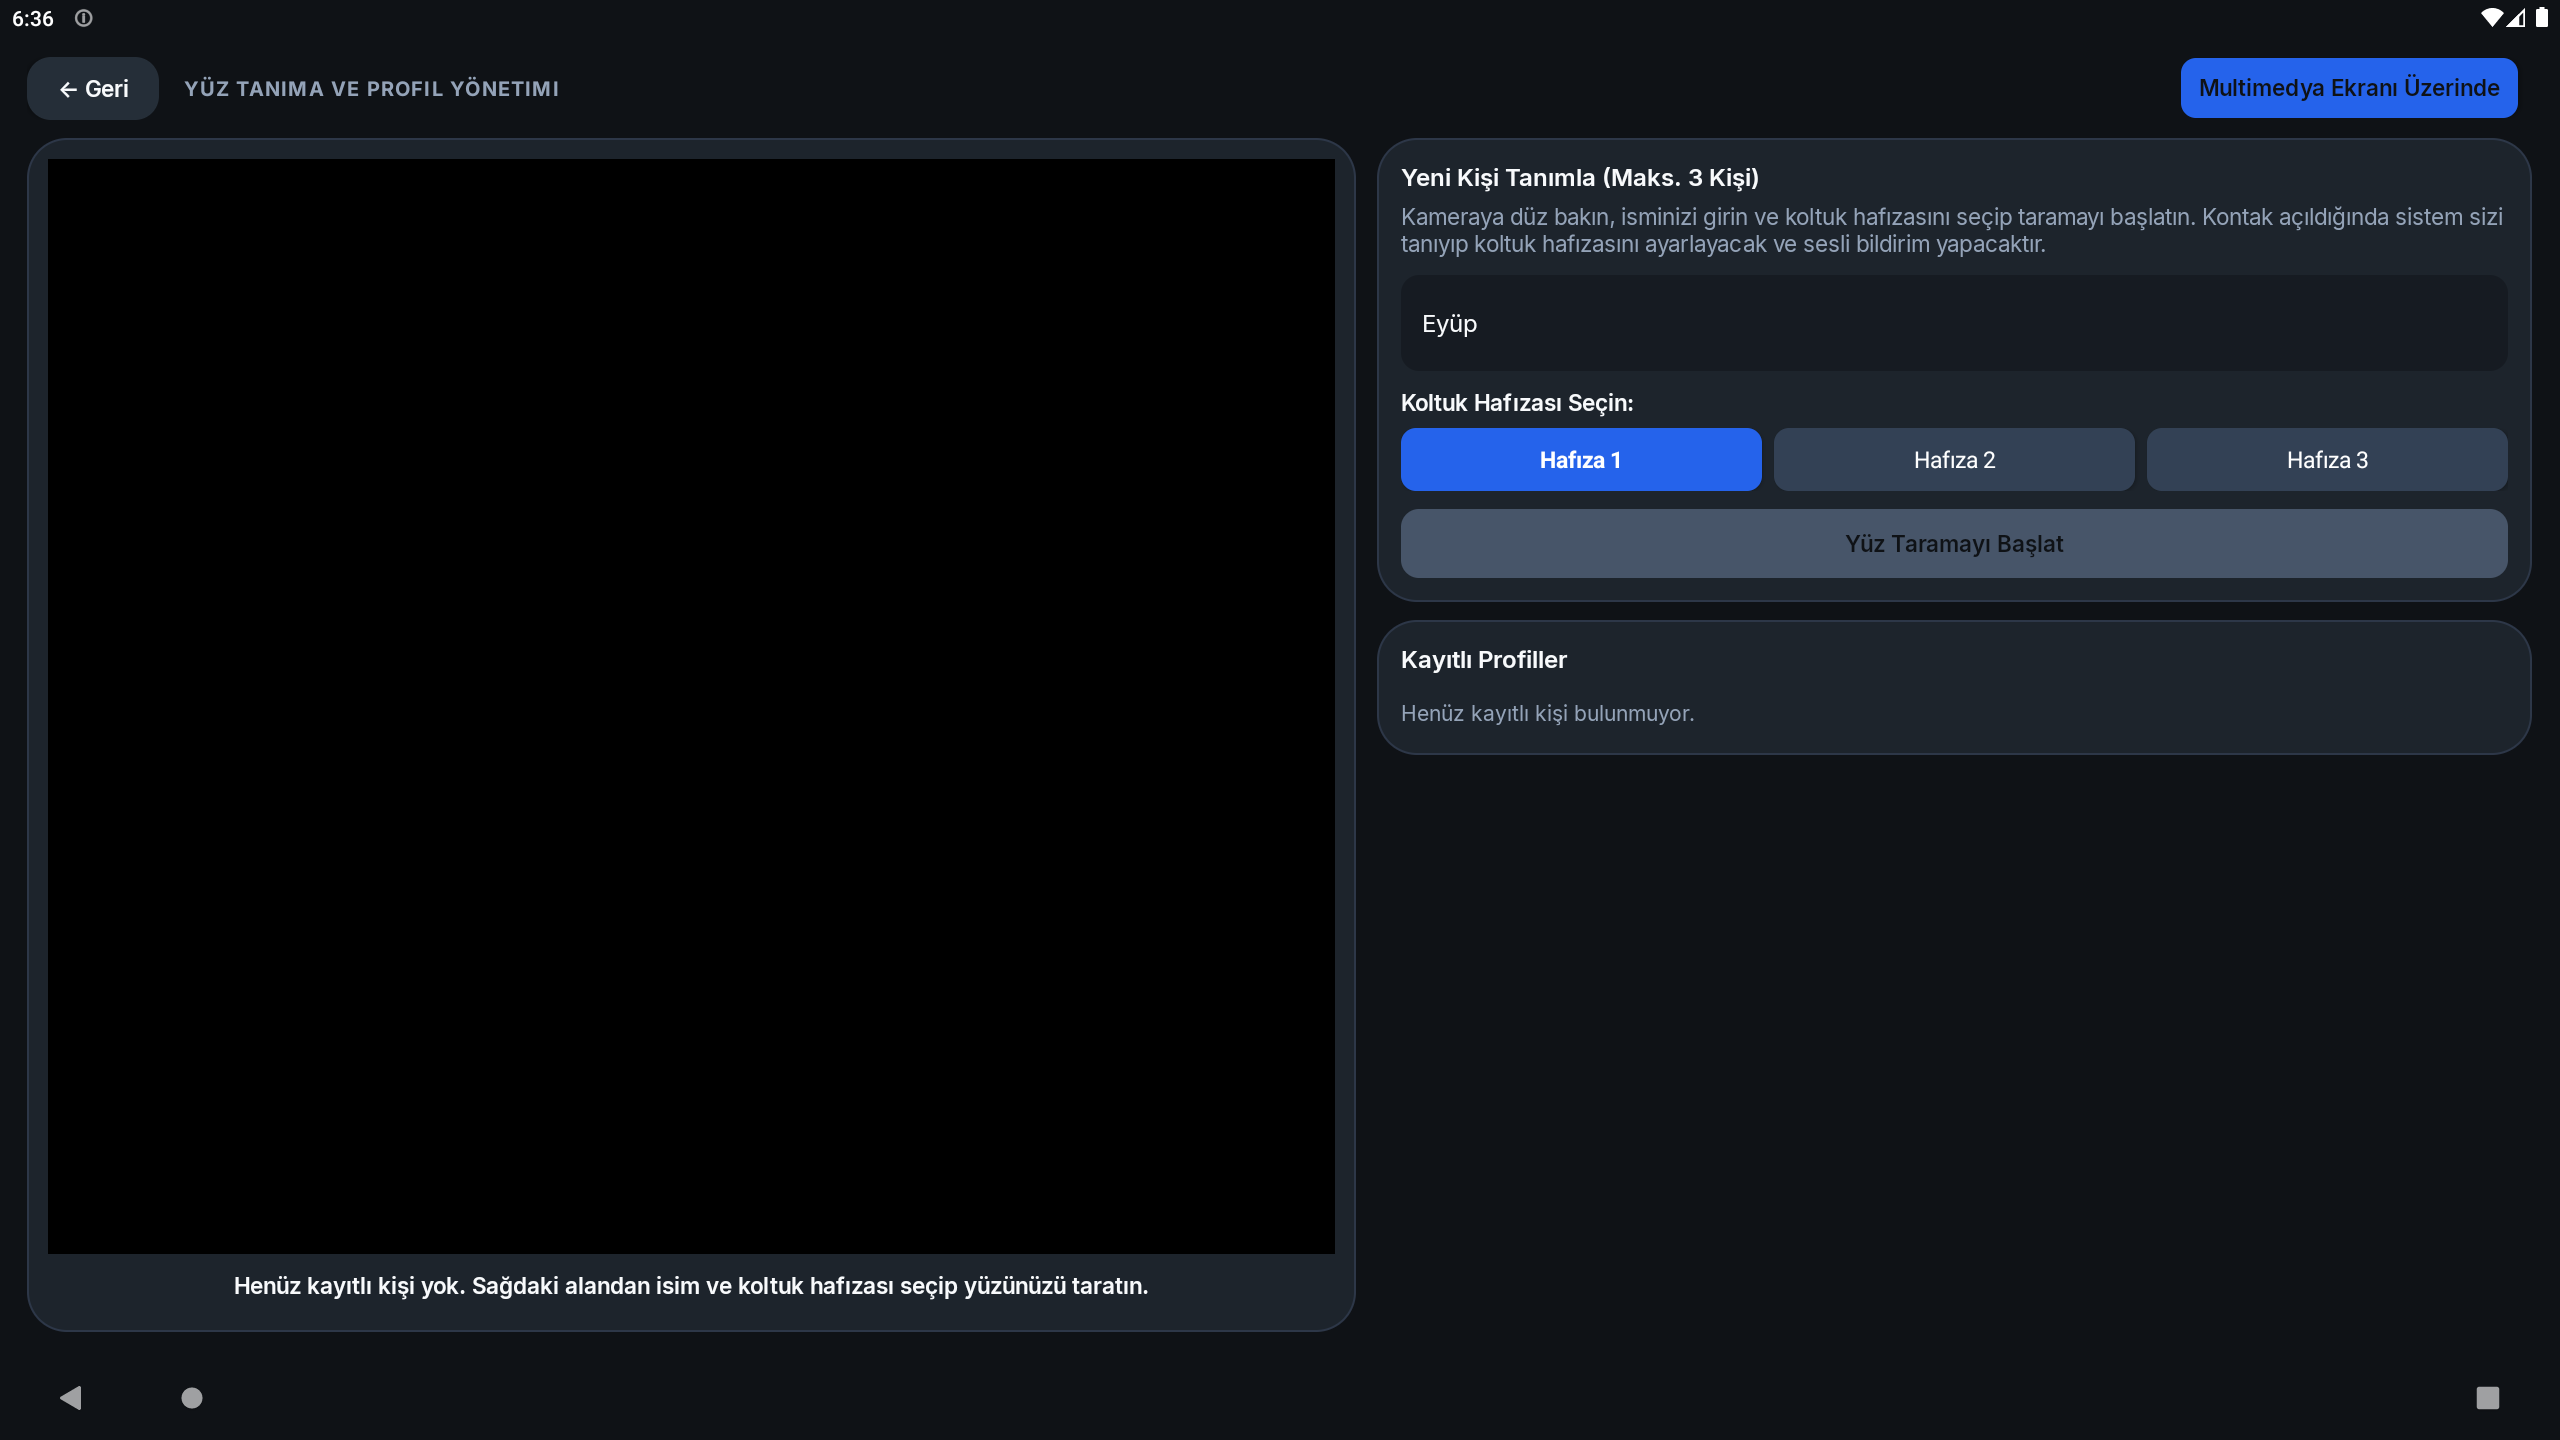
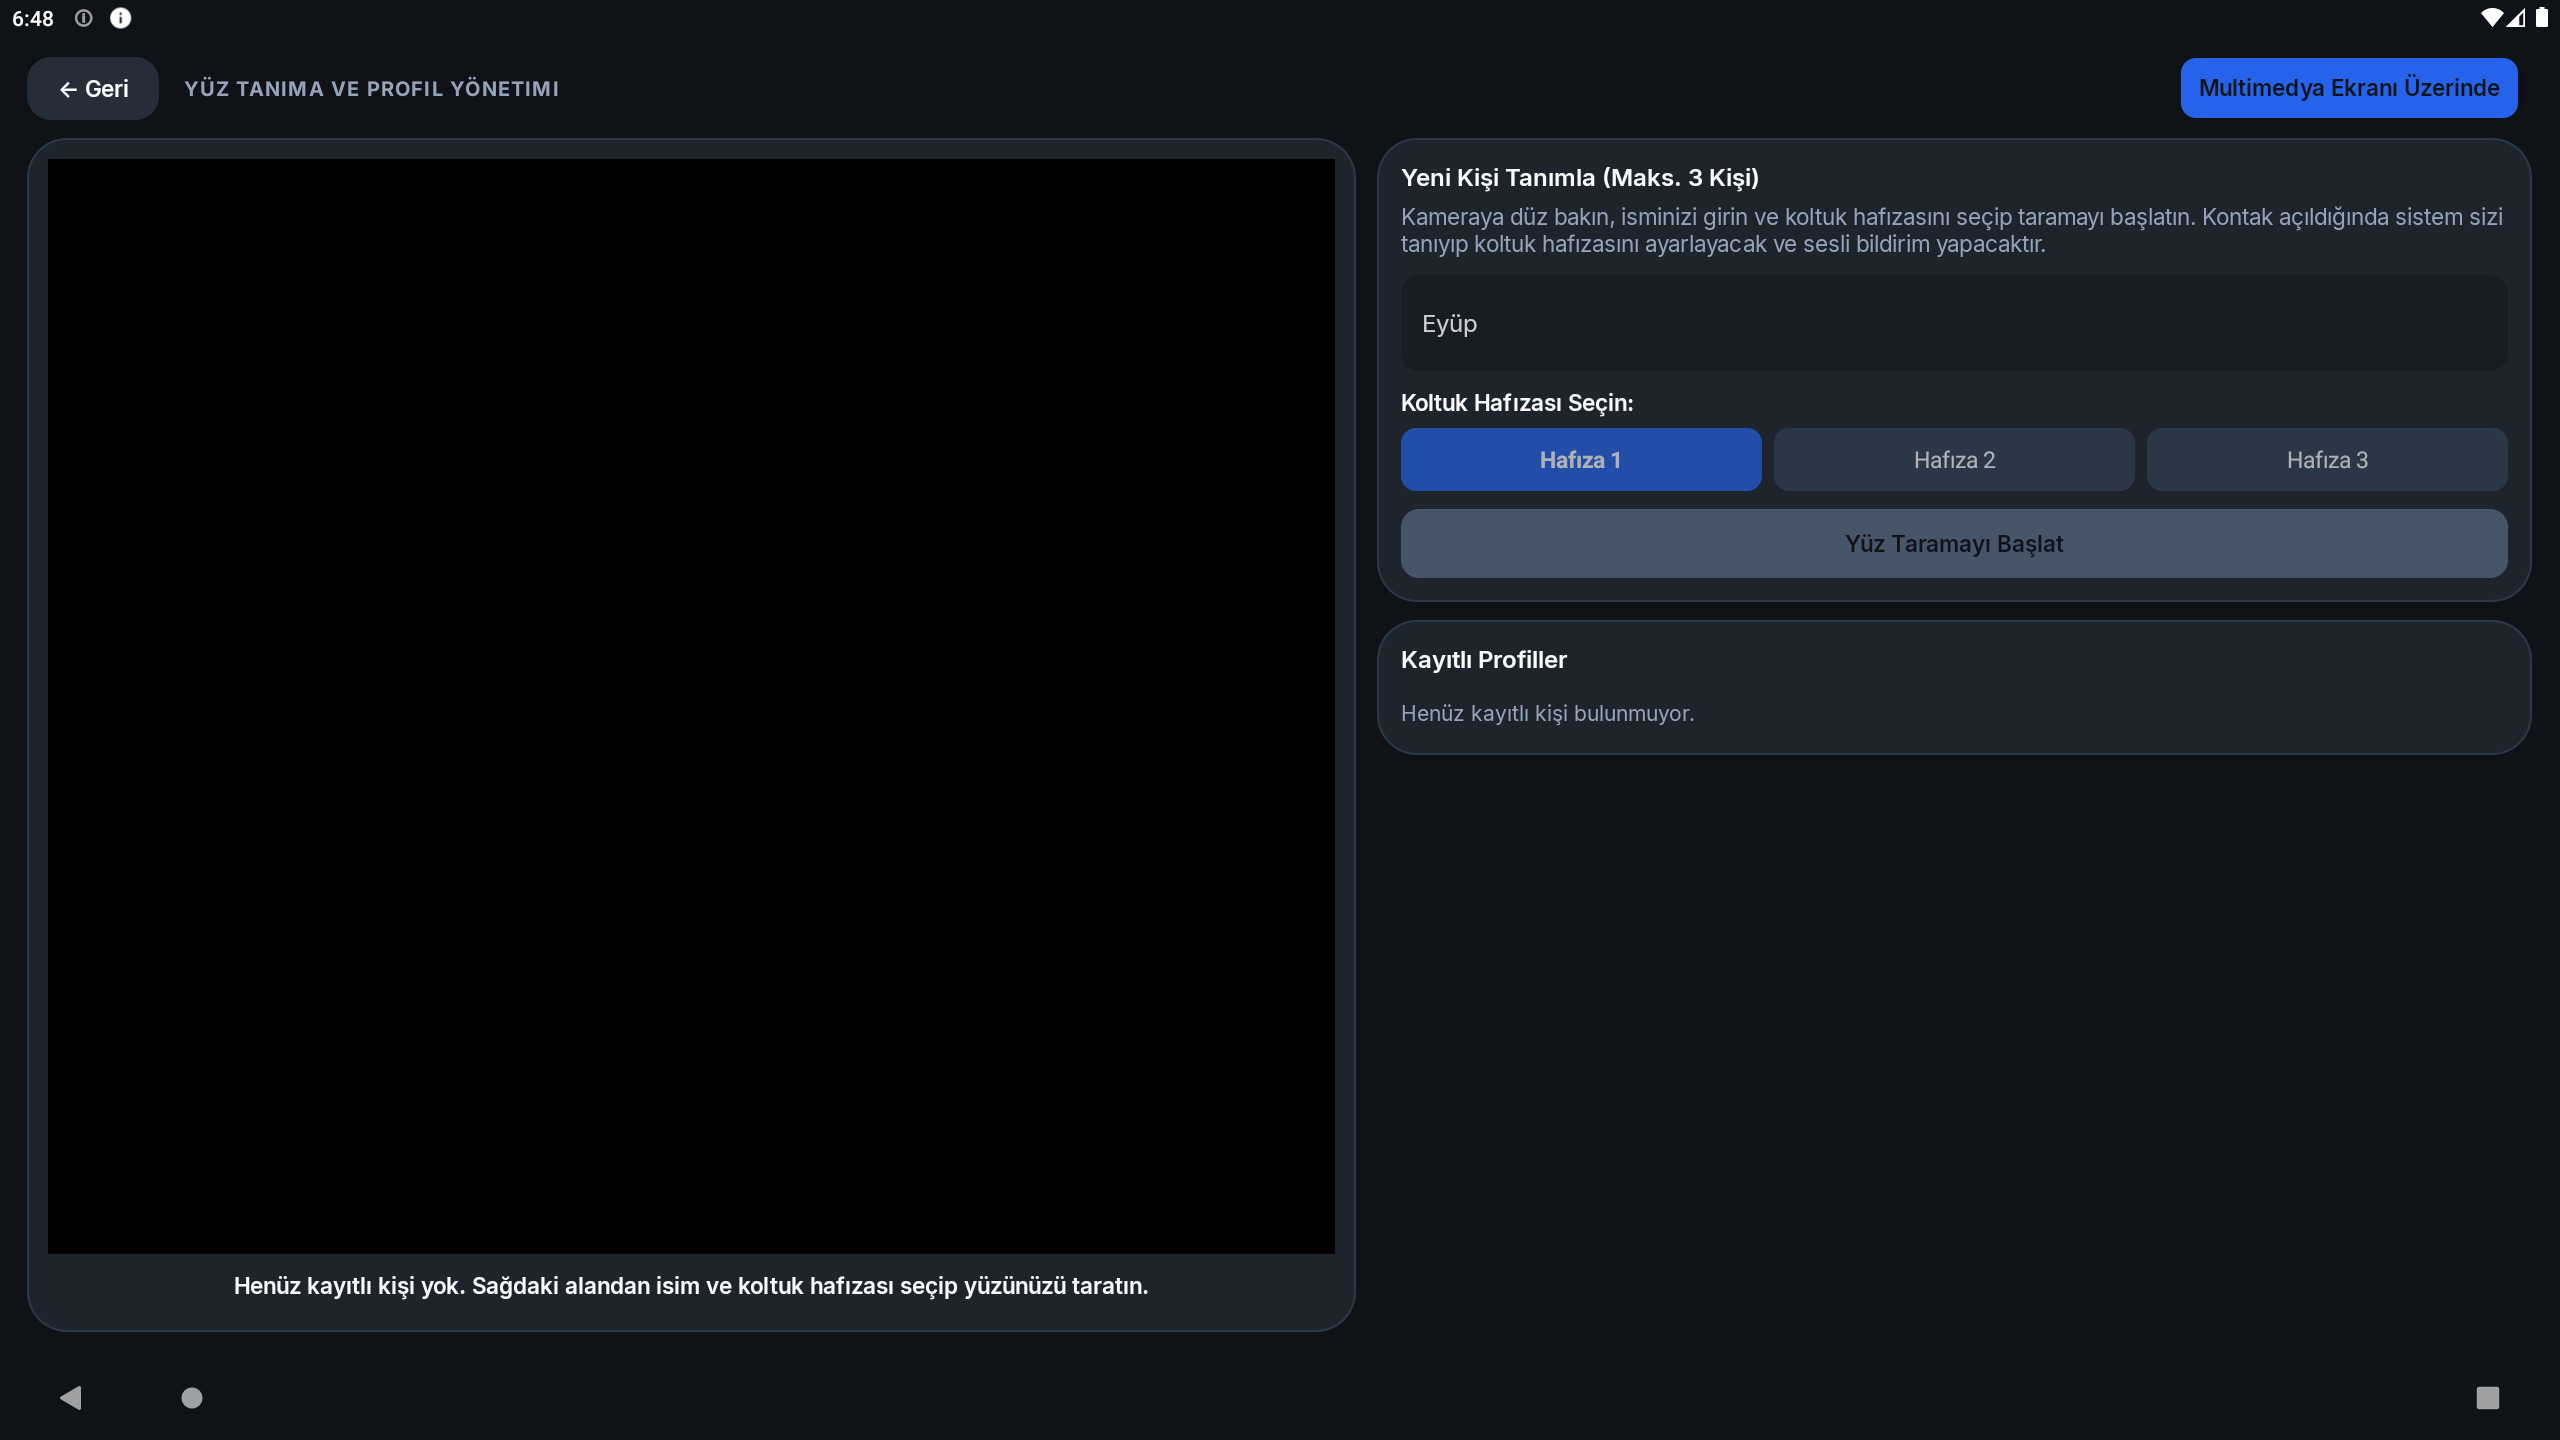
fix: profil yuz kaydinda kimlik alanlarini kilitle
- Profil kartindan acilirsa isim ve koltuk slotu degistirilemez
- Secili profil adi ve slotu prefill geliyor
- Dogrudan Yuz Tanima ekraninda yeni kisi girisleri serbest kaliyor

Changed region(s): [[0.5312, 0.2812, 0.6875, 0.3438], [0.75, 0.3125, 0.7812, 0.3438], [0.0312, 0.0, 0.0625, 0.0312]]

diff --git a/app/src/main/java/com/mapcontrol/ui/activity/DmsFaceProfileActivity.java b/app/src/main/java/com/mapcontrol/ui/activity/DmsFaceProfileActivity.java
@@ -71,6 +71,7 @@ public final class DmsFaceProfileActivity extends AppCompatActivity
     private static final long TONE_FRAME_INTERVAL_MS = 80L;
     public static final String EXTRA_PREFILL_NAME = "prefillFaceName";
     public static final String EXTRA_PREFILL_SEAT = "prefillFaceSeat";
+    public static final String EXTRA_LOCK_IDENTITY = "lockFaceIdentity";
 
     private final Handler uiHandler = new Handler();
     private TextureView preview;
@@ -181,6 +182,8 @@ public final class DmsFaceProfileActivity extends AppCompatActivity
                 : launchIntent.getStringExtra(EXTRA_PREFILL_NAME);
         int prefillSeat = launchIntent == null ? 0
                 : launchIntent.getIntExtra(EXTRA_PREFILL_SEAT, 0);
+        boolean lockIdentity = launchIntent != null
+                && launchIntent.getBooleanExtra(EXTRA_LOCK_IDENTITY, false);
         selectedMemory = prefillSeat >= 1 && prefillSeat <= FaceProfileStore.MAX_PROFILES
                 ? prefillSeat : pickNextAvailableMemory();
         buildScreen();
@@ -195,6 +198,17 @@ public final class DmsFaceProfileActivity extends AppCompatActivity
         }
         refreshProfilesListUi();
         updateMemoryButtonsUi();
+        if (lockIdentity) {
+            nameInput.setEnabled(false);
+            nameInput.setFocusable(false);
+            nameInput.setAlpha(0.8f);
+            for (Button button : memoryButtons) {
+                if (button != null) {
+                    button.setEnabled(false);
+                    button.setAlpha(0.65f);
+                }
+            }
+        }
 
         if (!CarSeatMemoryManager.getInstance(this).hasExplicitModePreference()) {
             uiHandler.postDelayed(this::showModeSelectionDialog, 400L);

diff --git a/app/src/main/java/com/mapcontrol/ui/builder/DriverProfilesTabBuilder.java b/app/src/main/java/com/mapcontrol/ui/builder/DriverProfilesTabBuilder.java
@@ -353,6 +353,7 @@ public class DriverProfilesTabBuilder {
         Intent intent = new Intent(context, DmsFaceProfileActivity.class);
         intent.putExtra(DmsFaceProfileActivity.EXTRA_PREFILL_NAME, profile.name);
         intent.putExtra(DmsFaceProfileActivity.EXTRA_PREFILL_SEAT, profile.seatSlot);
+        intent.putExtra(DmsFaceProfileActivity.EXTRA_LOCK_IDENTITY, true);
         context.startActivity(intent);
     }
 
